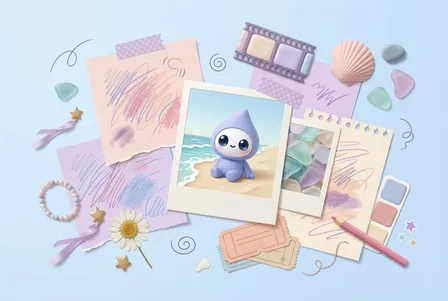
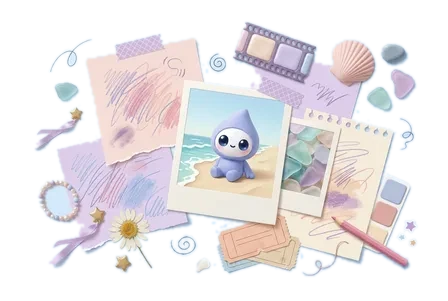
v30: прелоад — прошлый локап с вырезанным фоном, фон доски в альфа
- splash и главная возвращены к logo-wordmark.png + спящий маскот;
  у обоих wordmark PNG белый фон вокруг букв вырезан в альфа-канал
  (scripts/cut_bg.py --white), белой подложки/дымки больше нет
- creative-mess(.thumb).webp: фон коллажа вырезан в альфа вместо
  CSS-маски; .boards-hero/.board-teaser больше не нужен радиус-маска
- npm run check: проверка PNG/WebP IHDR-флага альфа вместо IMG_1024
- dom-smoke: ассерты на прошлый локап + маскот на прелоаде

diff --git a/app/css/app.css b/app/css/app.css
@@ -180,8 +180,9 @@ a{color:inherit}
 .hero::after{content:""; position:absolute; top:0; left:8%; right:8%; height:1px;
   background:linear-gradient(90deg, transparent, rgba(255,255,255,.9), transparent)}
 /* ---------- hero brand / daily phrase ---------- */
-/* Локап собран из IMG_1024.png: внешний фон связанно удалён в альфа-канал,
-   поэтому один прозрачный файл чисто работает на обеих палитрах. */
+/* Прошлый локап (logo-wordmark / logo-wordmark-pink): внешний фон вырезан в
+   альфа-канал (scripts/cut_bg.py), поэтому прозрачный PNG чисто лежит на обеих
+   палитрах без белой подложки вокруг букв. */
 .hero-brand{
   width:min(88%, 338px);
   height:auto;
@@ -641,7 +642,7 @@ a{color:inherit}
 @keyframes auroraDrift{to{transform:translate3d(8%,-5%,0) rotate(10deg) scale(1.08)}}
 @keyframes blobFloat{to{transform:translate3d(7vw,5vh,0) scale(1.1)}}
 
-.splash-inner{width:min(92vw,460px);padding:0;gap:22px}
+.splash-inner{width:min(82vw,390px);padding:0;gap:22px}
 .splash-art{position:relative;width:100%;aspect-ratio:1;border-radius:clamp(36px,12vw,72px);box-shadow:0 28px 90px rgba(62,113,200,.22),inset 0 1px rgba(255,255,255,.9);animation:breathe 3.8s ease-in-out infinite}
 .splash-dots{margin:0}
 
@@ -693,12 +694,13 @@ a{color:inherit}
 .mood-entry-note{margin-top:8px; padding:10px 12px; border-radius:12px; background:var(--card-2); color:var(--ink-2); font-size:13.8px; line-height:1.5; white-space:pre-wrap; border:1px solid var(--line-2)}
 .mood-entry-note:empty{display:none}
 
-/* ---------- splash logo (v29: новый локап из IMG_1024) ---------- */
-/* Внешний белый фон удалён в альфа-канал; отдельный маскот на прелоаде больше
-   не нужен — он уже выглядывает из букв нового логотипа. */
-.splash-wordmark{position:relative; width:min(92vw, 440px); height:auto; display:block;
+/* ---------- splash logo (v30: прошлый локап вернулся, фон вырезан) ---------- */
+/* Надпись с выглядывающим Дибитишкой + спящий маскот ниже. У обоих PNG фон
+   вокруг букв и персонажа чисто вырезан в альфа-канал (scripts/cut_bg.py),
+   поэтому на прелоаде нет ни белой плашки, ни светлой подложки. */
+.splash-wordmark{position:relative; width:min(86vw, 350px); height:auto; display:block;
   padding:0; border:0; border-radius:0; background:none; box-shadow:none;
-  filter:drop-shadow(0 14px 30px rgba(var(--accent-rgb),.18));
+  filter:drop-shadow(0 10px 26px rgba(var(--accent-rgb),.16));
   animation:breathe 4.6s ease-in-out infinite}
 .splash-tagline{position:relative; color:var(--ink-2); font-size:15px; line-height:1.5; text-align:center; max-width:300px}
 .splash-inner{gap:16px}
@@ -1122,7 +1124,8 @@ html{color-scheme: light}
    v29 · Новый логотип и «доска = пространство интерфейса»
    ============================================================ */
 
-/* Иллюстрация не живёт в карточке: её края растворяются в фоне страницы. */
+/* Иллюстрация не живёт в карточке: у PNG фон вырезан в альфа-канал
+   (scripts/cut_bg.py), поэтому картинка лежит прямо на интерфейсе. */
 .boards-hero{
   position:relative;
   margin:2px -30px 18px;
@@ -1132,26 +1135,15 @@ html{color-scheme: light}
   background:transparent;
   box-shadow:none;
 }
-.boards-hero::before{
-  content:"";
-  position:absolute;
-  inset:8% 3% 16%;
-  z-index:-1;
-  border-radius:50%;
-  background:rgba(196,220,249,.5);
-  filter:blur(34px);
-}
 .boards-hero img{
   display:block;
   width:100%;
   height:auto;
   aspect-ratio:1264/848;
-  object-fit:cover;
+  object-fit:contain;
   border:0;
   border-radius:0;
   filter:drop-shadow(0 18px 30px rgba(var(--ink-rgb),.08));
-  -webkit-mask-image:radial-gradient(ellipse 74% 72% at 50% 48%, #000 58%, rgba(0,0,0,.92) 72%, transparent 100%);
-  mask-image:radial-gradient(ellipse 74% 72% at 50% 48%, #000 58%, rgba(0,0,0,.92) 72%, transparent 100%);
 }
 .boards-hero figcaption{
   position:relative;
@@ -1179,14 +1171,12 @@ html{color-scheme: light}
   width:126px;
   height:96px;
   margin-left:-8px;
-  object-fit:cover;
+  object-fit:contain;
   border:0;
   border-radius:0;
   box-shadow:none;
   transform:rotate(-1.5deg);
   filter:drop-shadow(0 8px 14px rgba(var(--ink-rgb),.10));
-  -webkit-mask-image:radial-gradient(ellipse at center,#000 60%,transparent 100%);
-  mask-image:radial-gradient(ellipse at center,#000 60%,transparent 100%);
 }
 .board-teaser .chev{padding-right:4px}
 

diff --git a/app/js/app.js b/app/js/app.js
@@ -189,12 +189,13 @@ const pick = (arr, seed) => arr[seed % arr.length];
 const daySeed = () => Math.floor(Date.now() / 86400000);
 
 /* ---------- тема и палитра (голубая / розовая) ---------- */
-/* Тема одна — светлая; «розовая» — это палитра токенов. Новый локап из
-   IMG_1024 вырезан по внешнему контуру в прозрачность, поэтому один и тот же
-   PNG чисто лежит на обеих палитрах без цветной подложки и белого прямоугольника. */
+/* Тема одна — светлая; «розовая» — это палитра токенов в css/app.css
+   (:root[data-palette="pink"]). Возврат к прежнему локапу: у обоих PNG фон
+   вокруг букв чисто вырезан в альфа-канал (scripts/cut_bg.py), поэтому
+   белая подложка под надписью не нужна ни на одной палитре. */
 const PALETTES = {
-  blue: { title: 'Голубая', note: 'Небо и мягкий синий', bg: '#EDF3FE', logo: 'assets/brand/logo-2026.png' },
-  pink: { title: 'Розовая', note: 'Пудра, пион, тёплый свет', bg: '#FCEFF5', logo: 'assets/brand/logo-2026.png' }
+  blue: { title: 'Голубая', note: 'Небо и мягкий синий', bg: '#EDF3FE', logo: 'assets/brand/logo-wordmark.png' },
+  pink: { title: 'Розовая', note: 'Пудра, пион, тёплый свет', bg: '#FCEFF5', logo: 'assets/brand/logo-wordmark-pink.png' }
 };
 const paletteId = () => (PALETTES[state.palette] ? state.palette : 'blue');
 const brandLogo = () => PALETTES[paletteId()].logo;

diff --git a/app/index.html b/app/index.html
@@ -10,7 +10,7 @@
 <title>Дибитишка</title>
 <link rel="icon" type="image/png" href="assets/mascot/icon.png">
 <link rel="apple-touch-icon" href="assets/mascot/icon.png">
-<link rel="stylesheet" href="css/app.css?v=29-brand-board">
+<link rel="stylesheet" href="css/app.css?v=30-splash-wordmark">
 <link rel="stylesheet" href="css/hero-moods.css?v=28">
 <script src="config.js"></script>
 <script src="https://telegram.org/js/telegram-web-app.js"></script>
@@ -18,7 +18,8 @@
 <body>
 <div id="splash" aria-hidden="true">
   <div class="splash-inner">
-    <img class="splash-wordmark" src="assets/brand/logo-2026.png" alt="Дибитишка" width="1200" height="514" fetchpriority="high" data-brand-logo>
+    <img class="splash-wordmark" src="assets/brand/logo-wordmark.png" alt="Дибитишка" width="800" height="347" fetchpriority="high" data-brand-logo>
+    <img class="splash-art" src="assets/mascot/splash.png" alt="" style="width:min(62vw, 280px); aspect-ratio:auto; border-radius:32px; box-shadow:none; background:transparent">
     <div class="splash-tagline">Бережно · шаг за шагом · рядом</div>
     <div class="splash-dots" aria-hidden="true"><i></i><i></i><i></i></div>
     <div class="splash-by">app by @stonym0ntana</div>
@@ -28,6 +29,6 @@
 <main id="app" aria-live="polite"></main>
 <div id="sheet-root"></div>
 <nav id="tabbar" hidden></nav>
-<script type="module" src="js/app.js?v=29-brand-board"></script>
+<script type="module" src="js/app.js?v=30-splash-wordmark"></script>
 </body>
 </html>

diff --git a/scripts/cut_bg.py b/scripts/cut_bg.py
@@ -1,0 +1,129 @@
+#!/usr/bin/env python3
+"""Чистое вырезание фона вокруг artwork (логотип-буквы, коллаж доски, маскоты).
+
+Как это работает:
+  1. «фон» = пиксели, близкие к белому (логотип) или к модели фона
+     (квадратичная аппроксимация по краю картинки) — для цветных фонов;
+  2. flood fill идёт ТОЛЬКО снаружи: затравка = фон, прилегающий к уже
+     прозрачным пикселям, дальше маска несколько раз «разъедается» на 1 px,
+     так что белые блики и лицо маскота внутри artwork остаются целыми;
+  3. край маски сглаживается gaussian blur → нет «лесенки» и белой обводки.
+
+Запуск:
+  python3 cut_bg.py <in> <out> [--white|--model] [--dmax N] [--adj-rounds N] [--feather F]
+"""
+import argparse
+import collections
+import os
+
+import numpy as np
+from PIL import Image, ImageFilter
+
+
+def poly_features(y, x, H, W):
+    ny = y / max(H - 1, 1)
+    nx = x / max(W - 1, 1)
+    return np.stack([np.ones_like(nx), nx, ny, nx * nx, nx * ny, ny * ny], axis=-1)
+
+
+def fit_bg(rgb, known, H, W):
+    y, x = np.nonzero(known)
+    if y.size < 400:
+        return np.median(rgb[known], axis=0)
+    A = poly_features(y.astype(float), x.astype(float), H, W)
+    coef, *_ = np.linalg.lstsq(A, rgb[y, x].astype(np.float64), rcond=None)
+    Y, X = np.mgrid[0:H, 0:W]
+    return poly_features(Y.astype(float), X.astype(float), H, W) @ coef
+
+
+def flood(mask):
+    """связные компоненты mask, стартуя с его же пикселей (маска уже содержит край)"""
+    H, W = mask.shape
+    seen = mask.copy()
+    q = collections.deque(zip(*np.nonzero(mask)))
+    nb = ((1, 0), (-1, 0), (0, 1), (0, -1), (1, 1), (1, -1), (-1, 1), (-1, -1))
+    while q:
+        py, px = q.popleft()
+        for dy, dx in nb:
+            ny_, nx_ = py + dy, px + dx
+            if 0 <= ny_ < H and 0 <= nx_ < W and mask[ny_, nx_] and not seen[ny_, nx_]:
+                seen[ny_, nx_] = True
+                q.append((ny_, nx_))
+    return seen
+
+
+def main():
+    ap = argparse.ArgumentParser()
+    ap.add_argument("inp")
+    ap.add_argument("out")
+    mode = ap.add_mutually_exclusive_group()
+    mode.add_argument("--white", action="store_true", help="фон белый/пастельная дымка (логотип)")
+    mode.add_argument("--model", action="store_true", help="фон цветной, модель по краю (коллаж)")
+    ap.add_argument("--dmax", type=float, default=26.0, help="дистанция цвета до фона")
+    ap.add_argument("--satmax", type=float, default=40.0, help="макс. насыщенность для «белого» фона")
+    ap.add_argument("--adj-rounds", type=int, default=24, help="насколько глубоко разъедать фон от края")
+    ap.add_argument("--feather", type=float, default=1.1)
+    ap.add_argument("--out-preview", default=None)
+    ap.add_argument("--preview-bg", default="#EDF3FE")
+    a = ap.parse_args()
+
+    im = Image.open(a.inp).convert("RGBA")
+    arr = np.asarray(im).astype(np.float64)
+    H, W = arr.shape[:2]
+    rgb, alpha = arr[..., :3], arr[..., 3]
+
+    if a.white:
+        B = np.broadcast_to(np.array([255.0, 255.0, 255.0]), (H, W, 3)).copy()
+    else:
+        border = np.concatenate([
+            rgb[:2].reshape(-1, 3), rgb[-2:].reshape(-1, 3),
+            rgb[:, :2].reshape(-1, 3), rgb[:, -2:].reshape(-1, 3)], axis=0)
+        bg0 = np.median(border, axis=0)
+        d0 = np.sqrt(((rgb - bg0) ** 2).sum(-1))
+        B = fit_bg(rgb, (alpha > 8) & (d0 <= 2.4 * a.dmax), H, W)
+
+    dist = np.sqrt(((rgb - B) ** 2).sum(-1))
+    near_bg = dist <= a.dmax
+    if a.white:
+        cand = near_bg & ((255.0 - rgb.min(-1)) <= a.satmax)
+    else:
+        cand = near_bg
+
+    # снаружи внутрь: фон, который касается уже прозрачного, + разъедание на 1 px
+    outside = np.zeros((H, W), dtype=bool)   # рамка — затравка для полностью непрозрачных исходников
+    outside[:4] = outside[-4:] = True
+    outside[:, :4] = outside[:, -4:] = True
+    bg = (cand & (alpha < 200)) | (cand & outside)
+    transp = bg
+    for _ in range(max(1, a.adj_rounds)):
+        grow = np.asarray(Image.fromarray((transp.astype(np.uint8)) * 255).filter(ImageFilter.MaxFilter(3))) > 40
+        bg |= cand & grow
+        transp = bg
+    bg = flood(bg | (alpha < 8))
+
+    soft = (bg.astype(np.uint8)) * 255
+    if a.feather > 0:
+        soft = np.asarray(Image.fromarray(soft).filter(ImageFilter.GaussianBlur(a.feather)), dtype=np.float64) / 255.0
+    else:
+        soft = soft.astype(np.float64) / 255.0
+    keep = np.clip(1.0 - soft, 0.0, 1.0) * (alpha / 255.0)
+
+    out = arr.copy()
+    out[..., 3] = keep * 255.0
+    out[out[..., 3] < 1, :3] = 0.0            # обнуляем RGB в прозрачном — меньше вес
+    os.makedirs(os.path.dirname(os.path.abspath(a.out)) or ".", exist_ok=True)
+    ext = os.path.splitext(a.out)[1].lower()
+    kw = {"quality": 90, "method": 6} if ext in (".webp",) else {"optimize": True}
+    Image.fromarray(np.clip(out, 0, 255).astype(np.uint8), "RGBA").save(a.out, **kw)
+    print(f"{os.path.basename(a.inp)}: убрано фона {bg.mean()*100:.1f}% (dmax={a.dmax}, rounds={a.adj_rounds})")
+
+    if a.out_preview:
+        bgc = np.array([int(a.preview_bg[i:i + 2], 16) for i in (1, 3, 5)], dtype=np.float64)
+        src = np.asarray(Image.open(a.inp).convert("RGBA")).astype(np.float64)
+        A = keep[..., None]
+        comp = src[..., :3] * A + bgc * (1 - A)
+        Image.fromarray(np.clip(comp, 0, 255).astype(np.uint8)).save(a.out_preview)
+
+
+if __name__ == "__main__":
+    main()

diff --git a/README.md b/README.md
@@ -1,10 +1,22 @@
 # дибитишка 💧
 
-> **Это итерация номер 29** (15.09.2026).
+> **Это итерация номер 30** (15.09.2026).
+>
+> - **Прелоад вернулся к прошлому локапу.** На загрузке снова надпись
+>   `logo-wordmark.png` со спящим Дибитишкой (`mascot/splash.png`) под ней.
+>   Фон вокруг букв и персонажа вырезан в альфа-канал — без белой подложки
+>   и светлой дымки, поэтому логотип чисто лежит на обеих палитрах
+>   (`scripts/cut_bg.py`, проверка `pngHasAlpha` в `npm run check`).
+> - **Доска впечатлений: фон иллюстрации по-настоящему прозрачный.**
+>   У `creative-mess.webp` и миниатюры фон вырезан в альфа-канал, а не
+>   замазан CSS-маской; композиция лежит прямо на интерфейсе.
+>
+> **Итерация номер 29** (15.09.2026).
 >
 > - **Новый фирменный локап из `IMG_1024.png`.** Внешний светлый фон аккуратно
 >   удалён в прозрачность; один PNG используется на прелоадинге и главной в
->   голубой и розовой палитрах.
+>   голубой и розовой палитрах. *(в v30 splash вернулся к wordmark;
+>   `logo-2026.png` остаётся в репозитории как запасной вариант)*
 > - **Локальная Дибитишка отвечает разнообразнее.** В чате восемь быстрых
 >   подсказок, шестнадцать маленьких практик и расширенные банки для тревоги,
 >   злости, стыда, усталости, радости и других состояний. Одинаковая реплика

diff --git a/app/assets/boards/README.md b/app/assets/boards/README.md
@@ -4,7 +4,8 @@
 из обрывков бумаги, скотча, фото, плёнки, ракушек, морского стекла, бусин,
 ленточек, билетов, цветка, карандаша и маленьких талисманов. Элементы намеренно
 перекрываются и лежат под разными углами; внешней рамки у композиции нет —
-фон растворяется в интерфейсе, поэтому сам экран ощущается доской.
+фон вырезан прямо в альфа-канал картинки (`scripts/cut_bg.py`, режим
+`--model`), поэтому экран ощущается доской без всяких CSS-масок.
 
 `creative-mess-thumb.webp` — облегчённая версия для тизера на главной.
 Персонаж основан на `assets/mascot/hello.png`.
